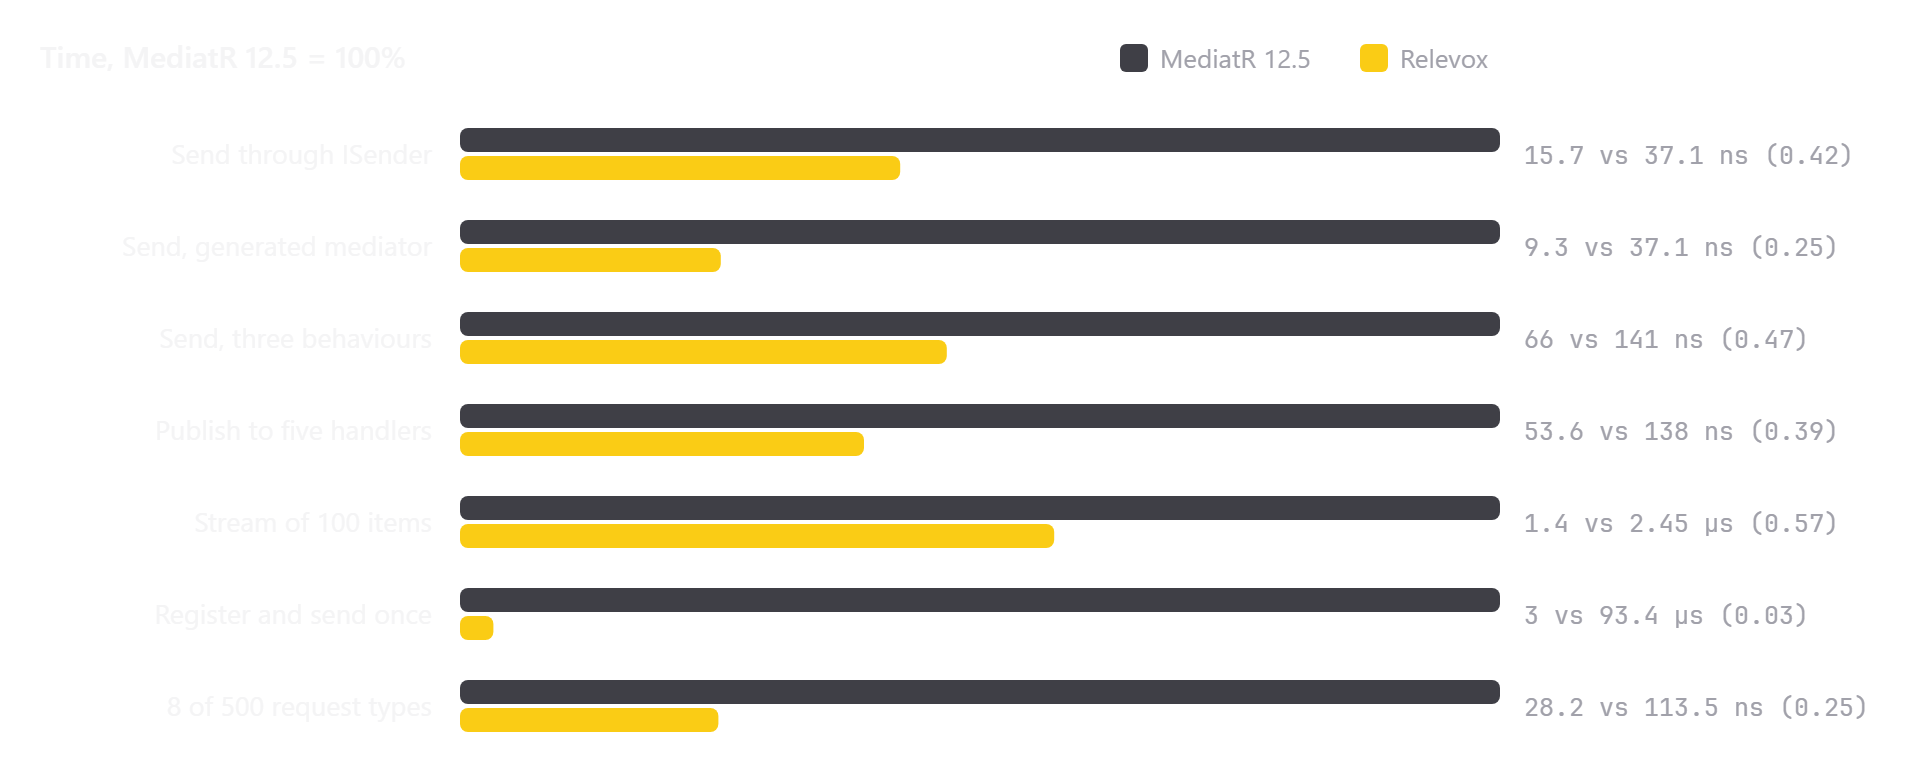
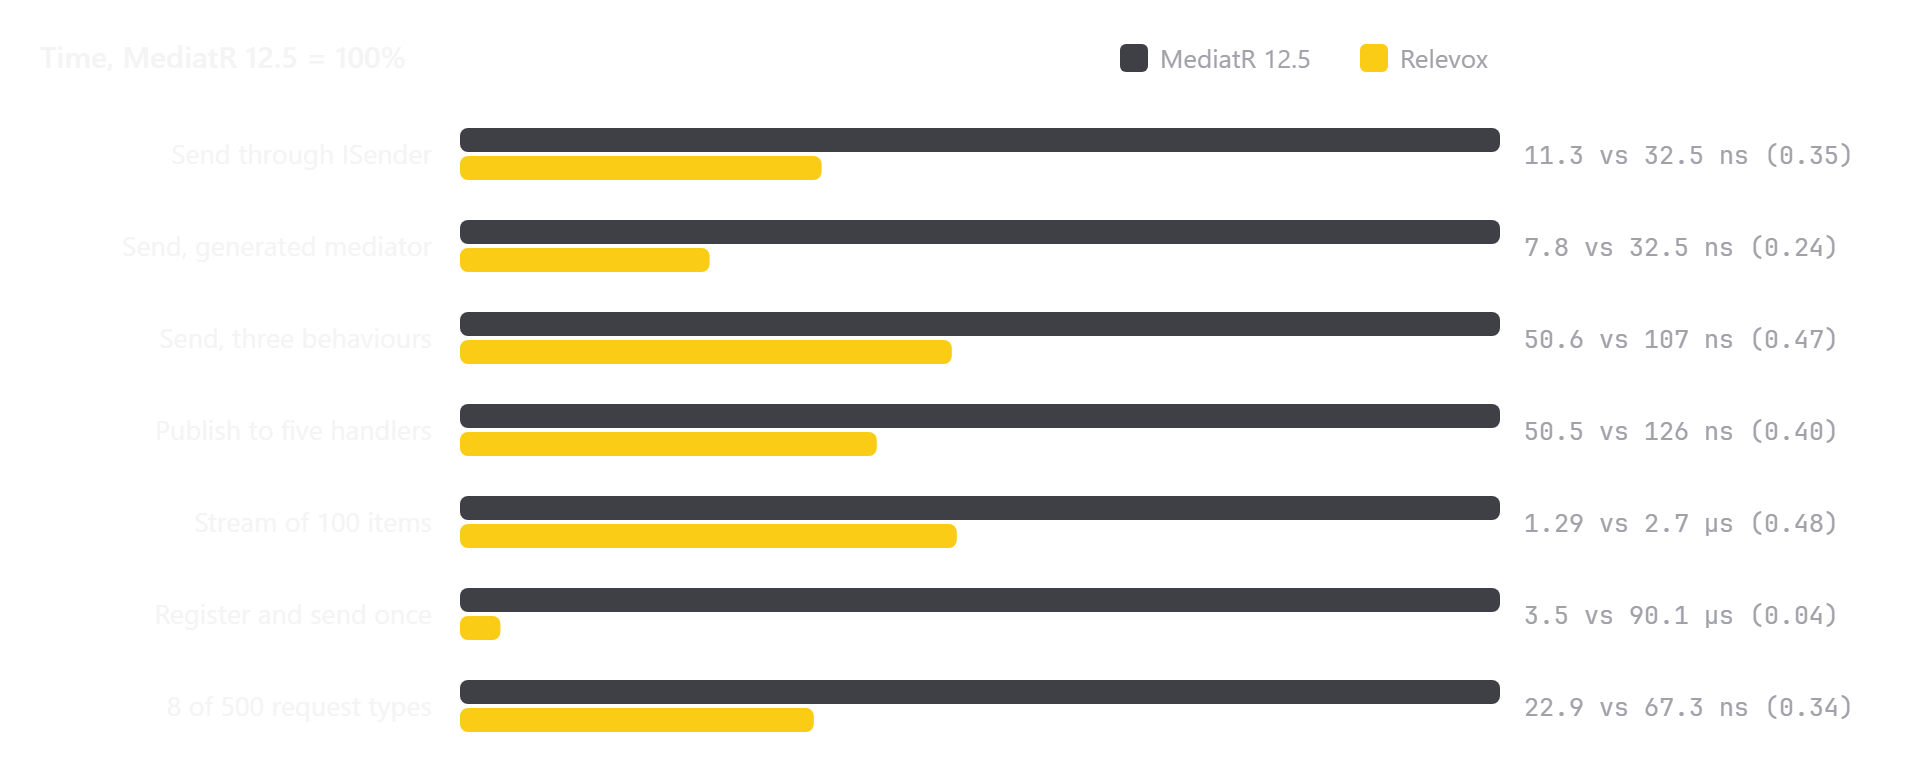
chore: release 1.0.1 with every benchmark run again

diff --git a/tools/diagrams.py b/tools/diagrams.py
@@ -152,15 +152,15 @@ def migration(t):
     ]
 
 
-# The README's benchmark table, from docs/benchmark-results/2026-10-17-m4.md: (label, MediatR, Relevox, unit).
+# The README's benchmark table, from docs/benchmark-results/2026-10-20-1.0.1.md: (label, MediatR, Relevox, unit).
 BENCHMARKS = [
-    ("Send through ISender", 37.1, 15.7, "ns"),
-    ("Send, generated mediator", 37.1, 9.3, "ns"),
-    ("Send, three behaviours", 141, 66, "ns"),
-    ("Publish to five handlers", 138, 53.6, "ns"),
-    ("Stream of 100 items", 2.45, 1.40, "µs"),
-    ("Register and send once", 93.4, 3.0, "µs"),
-    ("8 of 500 request types", 113.5, 28.2, "ns"),
+    ("Send through ISender", 32.5, 11.3, "ns"),
+    ("Send, generated mediator", 32.5, 7.8, "ns"),
+    ("Send, three behaviours", 107, 50.6, "ns"),
+    ("Publish to five handlers", 126, 50.5, "ns"),
+    ("Stream of 100 items", 2.70, 1.29, "µs"),
+    ("Register and send once", 90.1, 3.5, "µs"),
+    ("8 of 500 request types", 67.3, 22.9, "ns"),
 ]
 
 

diff --git a/docs/benchmark-results/2026-10-20-1.0.1.md b/docs/benchmark-results/2026-10-20-1.0.1.md
@@ -1,0 +1,115 @@
+# 1.0.1: every benchmark again, and a regression found
+
+Same machine and harness as the earlier results, every benchmark class run in full on the 1.0.1 code:
+
+```
+BenchmarkDotNet v0.15.8, Windows 11 (10.0.26100.9448/24H2)
+Intel Core Ultra 7 255H 2.00GHz, 16 logical and 16 physical cores
+.NET SDK 10.0.402, runtime .NET 10.0.13, X64 RyuJIT x86-64-v3, DefaultJob
+```
+
+## What happened
+
+1.0.1 registers every handler under its interfaces as well as its class, so the send benchmark was run again
+to show the send path had not moved. It had moved, but not because of 1.0.1: running the same benchmark on
+1.0.0 gave the same slow numbers.
+
+| Send benchmark | M4 (`b79d6b2`) | 1.0.0 | 1.0.1 |
+|---|---:|---:|---:|
+| Relevox, typed | 9.3 ns | about 20 ns | **7.8 ns** |
+| Relevox, `ISender` | 15.7 ns | about 25 ns | **11.3 ns** |
+| Relevox singletons, typed | 0.48 ns | about 11 ns | **0.94 ns** |
+
+A `git bisect` on the singleton row put it at the commit that turned the built-in behaviours into slots
+(`42f25d2`, PR #8). The first send of a request type works out what its pipeline holds and remembers the
+answer. A request with no behaviours at all was remembered as a pipeline, not as direct, so every later send
+asked the container for an empty list of behaviours and ran an empty chain. Nothing failed: only the time
+went up, by about 10 ns a send, for the most common kind of request there is. The README kept showing the M4
+numbers because the slot work re-ran only the pipeline benchmarks, which have behaviours and never take that
+path.
+
+The fix is two lines in `PipelineState`, with a test that fails without it
+(`A_request_with_no_behaviours_is_sent_directly_after_its_first_send`).
+
+The scale benchmark had broken on its own as well. Its generated source file began with an `<auto-generated/>`
+comment, and since `23ef61b` Relevox leaves generated code out the way the compiler's analyzers do, so every
+Relevox row failed with no handler found. The file no longer carries the marker, and CI now runs the scale
+benchmark's `--sanity` check next to the main one's, so neither problem can come back without a red build.
+
+## Send
+
+| | Mean | Ratio | Allocated |
+|---|---:|---:|---:|
+| MediatR 12.5 | 32.47 ns | 1.00 | 128 B |
+| **Relevox, typed** | **7.82 ns** | **0.24** | 24 B |
+| Relevox, `ISender` | 11.34 ns | 0.35 | 24 B |
+| Relevox, object | 18.13 ns | 0.56 | 120 B |
+| Relevox singletons, typed | 0.94 ns | 0.03 | 0 B |
+| Relevox singletons, `ISender` | 5.64 ns | 0.17 | 0 B |
+| MediatR 12.5, object | 38.14 ns | 1.18 | 224 B |
+| Mediator 3.0, typed | 0.97 ns | 0.03 | 0 B |
+| Mediator 3.0, `ISender` | 4.38 ns | 0.14 | 0 B |
+| Mediator 3.0, object | 12.05 ns | 0.37 | 24 B |
+
+## Pipeline with three behaviours
+
+| | Mean | Ratio | Allocated |
+|---|---:|---:|---:|
+| MediatR 12.5 | 107.29 ns | 1.00 | 656 B |
+| **Relevox, typed** | **50.56 ns** | **0.47** | 392 B |
+| Mediator 3.0, typed | 9.52 ns | 0.09 | 0 B |
+
+## Built-in pre and post processors
+
+| | Mean | Ratio | Allocated |
+|---|---:|---:|---:|
+| MediatR 12.5 | 208.75 ns | 1.00 | 1088 B |
+| **Relevox, typed** | **85.29 ns** | **0.41** | 456 B |
+
+## Publish
+
+| | Mean | Ratio | Allocated |
+|---|---:|---:|---:|
+| MediatR 12.5, 1 handler | 50.52 ns | 1.00 | 288 B |
+| **Relevox, 1 handler** | **11.71 ns** | **0.23** | 24 B |
+| Mediator 3.0, 1 handler | 1.79 ns | 0.04 | 0 B |
+| MediatR 12.5, 5 handlers | 126.12 ns | 2.50 | 896 B |
+| **Relevox, 5 handlers** | **50.54 ns** | **1.00** | 120 B |
+| Mediator 3.0, 5 handlers | 15.68 ns | 0.31 | 0 B |
+
+## Stream of 100 items
+
+| | Mean | Ratio | Allocated |
+|---|---:|---:|---:|
+| MediatR 12.5 | 2.703 µs | 1.00 | 592 B |
+| **Relevox, typed** | **1.290 µs** | **0.48** | 328 B |
+| Mediator 3.0, typed | 1.316 µs | 0.49 | 200 B |
+
+## Register and send once
+
+| | Mean | Ratio | Allocated |
+|---|---:|---:|---:|
+| MediatR 12.5 | 90.08 µs | 1.00 | 361.6 KB |
+| **Relevox** | **3.51 µs** | **0.04** | 17.5 KB |
+| Mediator 3.0 | 13.07 µs | 0.15 | 49.2 KB |
+
+The interface registrations 1.0.1 adds cost about 0.5 µs and 3.5 KB here, against 1.0.0's 3.0 µs and 14 KB
+in the M4 run. They are made once, at startup.
+
+## 500 request types
+
+| | Mean | Ratio | Allocated |
+|---|---:|---:|---:|
+| MediatR 12.5 | 43.37 ns | 1.00 | 128 B |
+| **Relevox, typed** | **9.67 ns** | **0.22** | 24 B |
+| Relevox, `ISender` | 16.94 ns | 0.39 | 24 B |
+| Mediator 3.0 transient, typed | 32.53 ns | 0.75 | 88 B |
+| Mediator 3.0 transient, `ISender` | 38.69 ns | 0.89 | 88 B |
+| MediatR 12.5, 8 types in turn | 67.26 ns | 1.55 | 184 B |
+| **Relevox, `ISender`, 8 types in turn** | **22.94 ns** | **0.53** | 24 B |
+| Mediator 3.0 transient, `ISender`, 8 types in turn | 60.02 ns | 1.39 | 88 B |
+
+## What these numbers do not show
+
+The scale rows ran in a separate session from the rest, about half an hour later, and MediatR's single send
+measured 43.4 ns there against 32.5 ns in the main run. Compare rows within one table, not across tables.

diff --git a/README.md b/README.md
@@ -38,27 +38,28 @@ anything:
 
 <picture>
   <source media="(prefers-color-scheme: dark)" srcset="docs/images/benchmarks-dark.png">
-  <img src="docs/images/benchmarks-light.png" alt="Relevox's time as a share of MediatR 12.5's, from 0.03 for registering and sending once to 0.57 for a stream of 100 items" width="760">
+  <img src="docs/images/benchmarks-light.png" alt="Relevox's time as a share of MediatR 12.5's, from 0.04 for registering and sending once to 0.48 for a stream of 100 items" width="760">
 </picture>
 
 Measured with BenchmarkDotNet 0.15.8 on an Intel Core Ultra 7 255H, .NET 10.0.13, Windows 11. Full tables,
 and what each number does and does not show, are in
-[docs/benchmark-results/2026-10-17-m4.md](docs/benchmark-results/2026-10-17-m4.md), measured at commit `b79d6b2`.
+[docs/benchmark-results/2026-10-20-1.0.1.md](docs/benchmark-results/2026-10-20-1.0.1.md), measured for 1.0.1.
 With allocations:
 
 | | MediatR 12.5 | Relevox | Relevox as a share of MediatR |
 |---|---:|---:|---:|
-| Send, through `ISender` | 37.1 ns, 128 B | 15.7 ns, 24 B | 0.42 |
-| Send, through the generated mediator | 37.1 ns, 128 B | 9.3 ns, 24 B | 0.25 |
-| Send with three behaviours | 141 ns, 656 B | 66 ns, 392 B | 0.47 |
-| Publish to five handlers | 138 ns | 53.6 ns | 0.39 |
-| Stream of 100 items | 2.45 µs, 592 B | 1.40 µs, 328 B | 0.57 |
-| Register and send once | 93.4 µs | 3.0 µs | 0.03 |
-| Eight request types in turn, of 500 | 113.5 ns | 28.2 ns | 0.25 |
+| Send, through `ISender` | 32.5 ns, 128 B | 11.3 ns, 24 B | 0.35 |
+| Send, through the generated mediator | 32.5 ns, 128 B | 7.8 ns, 24 B | 0.24 |
+| Send with three behaviours | 107 ns, 656 B | 50.6 ns, 392 B | 0.47 |
+| Publish to five handlers | 126 ns, 896 B | 50.5 ns, 120 B | 0.40 |
+| Stream of 100 items | 2.70 µs, 592 B | 1.29 µs, 328 B | 0.48 |
+| Register and send once | 90.1 µs | 3.5 µs | 0.04 |
+| Eight request types in turn, of 500 | 67.3 ns | 22.9 ns | 0.34 |
 
-Mediator 3.0, the other source-generated library, is faster where it holds handlers as singletons, which it
-does by default and Relevox does on request. With transient handlers in both, Relevox's typed send is 9.5 ns
-against Mediator's 28.3 ns. Mediator's handlers return `ValueTask`, so moving to it means rewriting them;
+Mediator 3.0, the other source-generated library, holds handlers as singletons by default, which Relevox does
+on request; a typed send then takes about 1 ns in both. Mediator stays ahead on behaviours and publishing,
+which it composes at build time. With transient handlers in both, Relevox's typed send is 9.7 ns against
+Mediator's 32.5 ns. Mediator's handlers return `ValueTask`, so moving to it means rewriting them;
 that is the trade [ADR 0002](docs/adr/0002-task-not-valuetask.md) explains.
 
 ## Quick start

diff --git a/CHANGELOG.md b/CHANGELOG.md
@@ -6,6 +6,28 @@ All notable changes to this project are written down here. The format follows
 
 ## [Unreleased]
 
+## [1.0.1] - 2026-10-20
+
+### Fixed
+
+- A request with no behaviours is sent straight to its handler again. Since the built-in behaviours became
+  slots, before 1.0.0, such a request was remembered as having a pipeline after its first send, so every send
+  asked the container for an empty list of behaviours: about 10 ns more per send, and a singleton handler's
+  typed send went from under 1 ns to about 11 ns. The README showed numbers measured before that change.
+  Every benchmark has been run again ([results](docs/benchmark-results/2026-10-20-1.0.1.md)), and the README
+  shows the new numbers.
+- `AddRelevox` registers every handler under its interface as well as its class, as MediatR does. Code that took
+  a handler as `IRequestHandler<TRequest, TResponse>`, `IStreamRequestHandler<TRequest, TResponse>` or
+  `IEnumerable<INotificationHandler<TNotification>>` compiled after moving from MediatR and then failed when the
+  container was built or the class was first resolved. A real migration found it: one query handler called
+  another through its interface. The interface registrations hand out the class registration, with its
+  lifetime, so they return the instance the mediator uses; one the application made under the interface itself
+  is kept. [compatibility.md](docs/compatibility.md) lists the two cases where the list of notification handlers
+  is still shorter than MediatR's. Registering costs about 0.5 µs more for the benchmark's handlers; sending is
+  unchanged.
+- A keyed registration the application made before `AddRelevox` no longer stops the unkeyed handler being
+  registered.
+
 ## [1.0.0] - 2026-10-19
 
 The first release. Relevox is a mediator for .NET 10 whose dispatch is written by a source generator while the
